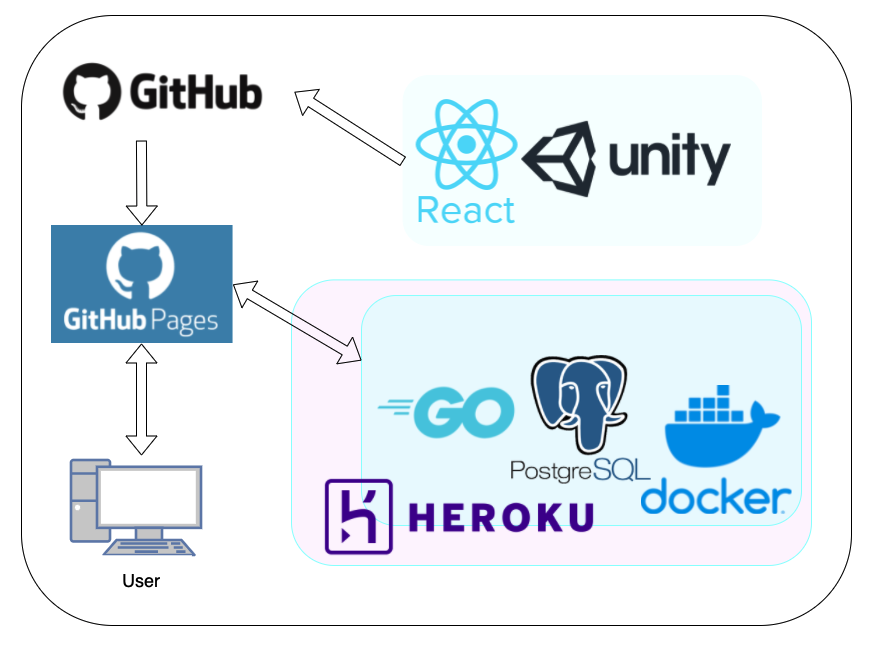
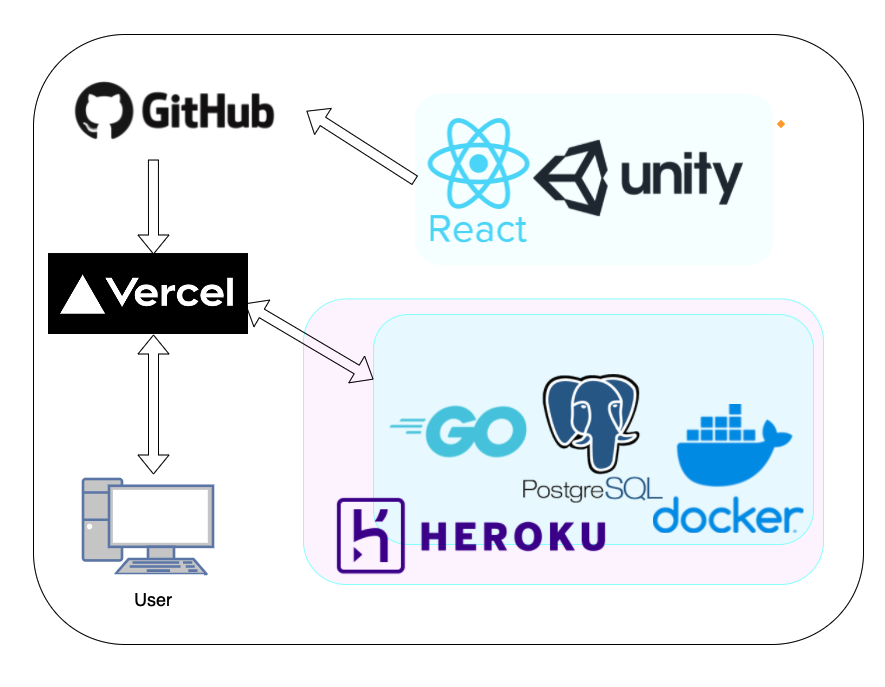
修正

diff --git a/src/blog/About.js b/src/blog/About.js
@@ -87,7 +87,8 @@ function About() {
             </Typography>
             <Typography style={{ padding: "0% 3%", paddingTop: "3%" }}>
               インターネット上で<strong>「ライフゲーム」</strong>
-              と検索するとほぼ２次元で施工されているがUnityを駆使して３次元で表した。
+              と検索するとほぼ２次元で作成されているが、
+              Unityを駆使して３次元で表した。
               <br />
               二次元時と比べ、三次元だと厚みが出るのでより多くの生命パターンが発見できるだろう。
               <br />

diff --git a/src/blog/MainFeaturedPost.js b/src/blog/MainFeaturedPost.js
@@ -46,7 +46,8 @@ export default function MainFeaturedPost(props) {
       <Grid item md={7}>
         <div className={classes.mainFeaturedPostContent}>
           <Typography component="h1" variant="h3" color="inherit" gutterBottom>
-            <img src={Logo} alt="" width="280" />
+            {/* <img src={Logo} alt="" width="280" /> */}
+            <strong>Game of Life 3D</strong>
           </Typography>
           <Typography variant="h4" color="inherit" paragraph>
             <strong>

diff --git a/public/index.html b/public/index.html
@@ -24,7 +24,7 @@
       work correctly both with client-side routing and a non-root public URL.
       Learn how to configure a non-root public URL by running `npm run build`.
     -->
-    <title>LifeGame 3D</title>
+    <title>Game of Life 3D</title>
   </head>
   <body>
     <noscript>You need to enable JavaScript to run this app.</noscript>

diff --git a/src/blog/Tech.js b/src/blog/Tech.js
@@ -42,7 +42,7 @@ function Tech() {
             : sapport by heroku
             <br />
             <br />
-            <strong>Heroku</strong>
+            <strong>Heroku / Vercel</strong>
             : 無料枠使用(Go, Postgres)
             <br />
           </Typography>

diff --git a/README.md b/README.md
@@ -1,4 +1,4 @@
-# LifeGame3D
+# Game of Life 3D
 
 ## :page_with_curl: App URL
 
